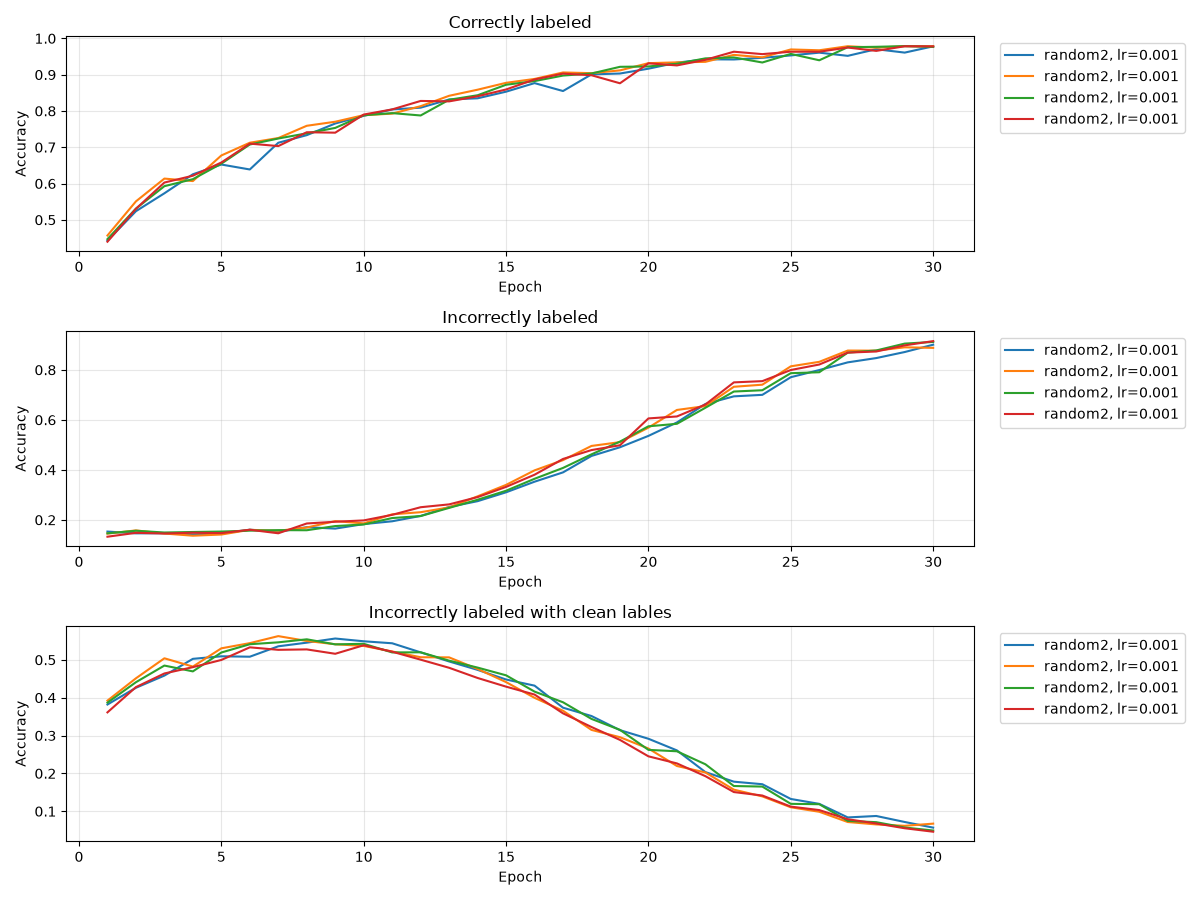
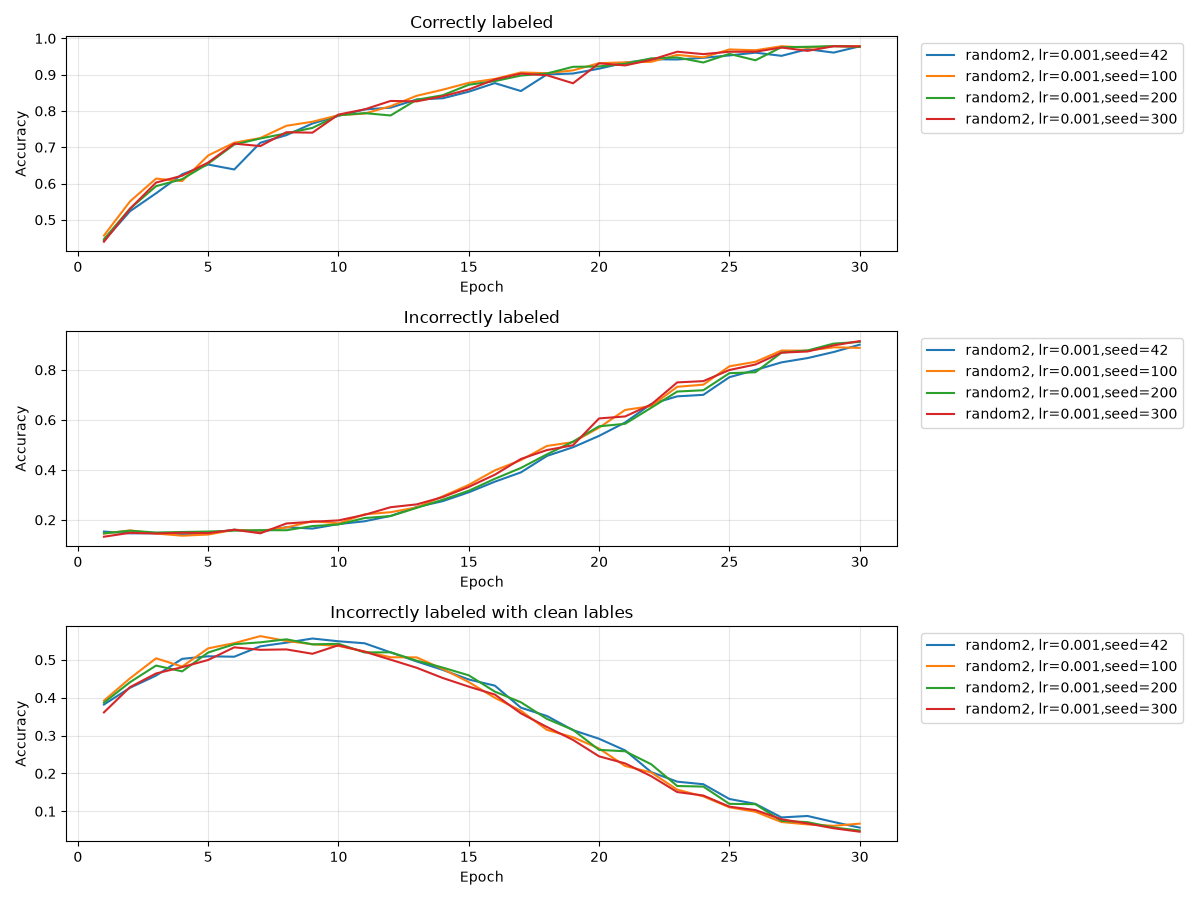
fikset at alle plotingene fungerer med ny filstruktur

diff --git a/plot_training.py b/plot_training.py
@@ -2,89 +2,105 @@ import json
 import matplotlib.pyplot as plt
 import numpy as np
 
-# Files for each run
-plotName = "different learning rates no noise"
-folder = "results"
-runs = {
-    "1e-2": "noise_clean_learning_rate_0.01_history.json",
-    "1e-3": "noise_clean_learning_rate_0.001_history.json",
-    "1e-4": "noise_clean_learning_rate_0.0001_history.json",
-    "1e-5": "noise_clean_learning_rate_1e-05_history.json"
-}
 
-# Different colors for each run
-colors = ["tab:blue", "tab:orange", "tab:green", "tab:red"]
+def plot_Loss_Accuracy_overfitting(folder,plotName, label_sets, learning_rates, seeds, max_epochs):
+    experiments = len(label_sets)* len(learning_rates)* len(seeds)
+    experiment = 0
 
-# Different line styles for each metric
-styles = {
-    "train": "-",
-    "val_noisy": "--",
-    "val_clean": ":",
-}
+    # Different colors for each run
+    colors = ["tab:blue", "tab:orange", "tab:green", "tab:red"]
 
-fig, ax = plt.subplots(3, 1, figsize=(12, 9))
+    # Different line styles for each metric
+    styles = {
+        "train": "-",
+        "val_noisy": "--",
+        "val_clean": ":",
+    }
 
-for (run_name, filename), color in zip(runs.items(), colors):
+    if experiments > len(colors):
+            print("to manny runs, add more collers or reduse label_sets or learning_rates")
+            return
+    
+    fig, ax = plt.subplots(3, 1, figsize=(12, 9))
 
-    with open(f"{folder}/{filename}", "r") as f:
-        history = json.load(f)
+    for noise in label_sets:
+        for learning_rate in learning_rates: 
+            for seed in seeds:
+                experiment_name = f"noise_{noise}_learning_rate_{learning_rate}_seed{seed}_epochs_{max_epochs}"
+                experiment_file = f"{folder}/{experiment_name}_history.json"
 
-    epochs = range(1, len(history["train_loss"]) + 1)
+                with open(experiment_file, "r") as f:
+                    history = json.load(f)
 
-    # Loss
-    for metric, style in styles.items():
-        ax[0].plot(
-            epochs,
-            history[f"{metric}_loss"],
-            color=color,
-            linestyle=style,
-            label=f"{run_name} - {metric}"
-        )
+                epochs = range(1, len(history["train_loss"])+1)
 
-    # Accuracy
-    for metric, style in styles.items():
-        ax[1].plot(
-            epochs,
-            history[f"{metric}_accuracy"],
-            color=color,
-            linestyle=style,
-            label=f"{run_name} - {metric}"
-        )
+                # Loss
+                for metric, style in styles.items():
+                    ax[0].plot(
+                        epochs,
+                        history[f"{metric}_loss"],
+                        color=colors[experiment],
+                        linestyle=style,
+                        label=f"{noise}, lr={learning_rate}, seed={seed} - {metric}"
+                    )
 
-    # overfitting gap
-    overfitting_gap = np.asarray(history[f"train_accuracy"]) - np.asarray(history[f"val_clean_accuracy"])
+                # Accuracy
+                for metric, style in styles.items():
+                    ax[1].plot(
+                        epochs,
+                        history[f"{metric}_accuracy"],
+                        color=colors[experiment],
+                        linestyle=style,
+                        label=f"{noise}, lr={learning_rate}, seed={seed} - {metric}"
+                    )
 
-    ax[2].plot(
-        epochs,
-        overfitting_gap,
-        color=color,
-        linestyle="-",
-        label=f"{run_name}"
-    )
+                # overfitting gap
+                overfitting_gap = np.asarray(history[f"train_accuracy"]) - np.asarray(history[f"val_clean_accuracy"])
 
-# Loss plot
-ax[0].set_xlabel("Epoch")
-ax[0].set_ylabel("Loss")
-ax[0].set_title("Loss")
-ax[0].legend(loc="upper left", bbox_to_anchor=(1.02, 1))
-ax[0].grid(True, alpha=0.3)
+                ax[2].plot(
+                    epochs,
+                    overfitting_gap,
+                    color=colors[experiment],
+                    linestyle="-",
+                    label=f"{noise}, lr={learning_rate}, seed={seed}"
+                )
 
+                experiment += 1
 
-# Accuracy plot
-ax[1].set_xlabel("Epoch")
-ax[1].set_ylabel("Accuracy")
-ax[1].set_title("Accuracy")
-ax[1].legend(loc="upper left", bbox_to_anchor=(1.02, 1))
-ax[1].grid(True, alpha=0.3)
-
-# overfitting plot
-ax[2].set_xlabel("Epoch")
-ax[2].set_ylabel("Overfitting gap")
-ax[2].set_title("Overfitting gap (train accuracy - clean val accuracy)")
-ax[2].legend(loc="upper left", bbox_to_anchor=(1.02, 1))
-ax[2].grid(True, alpha=0.3)
+    # Loss plot
+    ax[0].set_xlabel("Epoch")
+    ax[0].set_ylabel("Loss")
+    ax[0].set_title("Loss")
+    ax[0].legend(loc="upper left", bbox_to_anchor=(1.02, 1))
+    ax[0].grid(True, alpha=0.3)
 
 
-plt.tight_layout()
-plt.savefig(f"plots/{plotName}")
-plt.show()
+    # Accuracy plot
+    ax[1].set_xlabel("Epoch")
+    ax[1].set_ylabel("Accuracy")
+    ax[1].set_title("Accuracy")
+    ax[1].legend(loc="upper left", bbox_to_anchor=(1.02, 1))
+    ax[1].grid(True, alpha=0.3)
+
+    # overfitting plot
+    ax[2].set_xlabel("Epoch")
+    ax[2].set_ylabel("Overfitting gap")
+    ax[2].set_title("Overfitting gap (train accuracy - clean val accuracy)")
+    ax[2].legend(loc="upper left", bbox_to_anchor=(1.02, 1))
+    ax[2].grid(True, alpha=0.3)
+
+
+    plt.tight_layout()
+    plt.savefig(f"plots/{plotName}")
+    plt.show()
+
+
+if __name__ == "__main__":
+    folder = "results_learningrates"
+    plotName = "Loss, Accuracy, overfitting under training "
+    #label_sets = ["clean", "aggre", "random1", "random2", "random3", "worst"]
+    label_sets = ["random2"]
+    learning_rates = [0.001]
+    seeds = [42, 100, 200, 300]
+    epochs = 30
+    plot_Loss_Accuracy_overfitting(folder, plotName, label_sets, learning_rates, seeds, epochs)

diff --git a/plot_lable_accuracy.py b/plot_lable_accuracy.py
@@ -2,7 +2,7 @@ import json
 import matplotlib.pyplot as plt
 import numpy as np
 
-def plot_label_Accuracy(plotName, label_sets, learning_rates, seeds, max_epochs):
+def plot_label_Accuracy(folder, plotName, label_sets, learning_rates, seeds, max_epochs):
     experiments = len(label_sets)* len(learning_rates)* len(seeds)
     experiment = 0
 
@@ -19,19 +19,19 @@ def plot_label_Accuracy(plotName, label_sets, learning_rates, seeds, max_epochs)
         for learning_rate in learning_rates: 
             for seed in seeds:
                 experiment_name = f"noise_{noise}_learning_rate_{learning_rate}_seed{seed}_epochs_{max_epochs}"
-                experiment_file = f"results/{experiment_name}_history.json"
+                experiment_file = f"{folder}/{experiment_name}_history.json"
 
                 with open(experiment_file, "r") as f:
                     history = json.load(f)
 
-                epochs = range(1, max_epochs+1)
+                epochs = range(1, len(history["train_loss"])+1)
 
                 ax[0].plot(
                     epochs,
                     history["correctly_labeled_accuracy"],
                     color=colors[experiment],
                     linestyle="-",
-                    label=f"{noise}, lr={learning_rate}"
+                    label=f"{noise}, lr={learning_rate},seed={seed}"
                 )
 
                 ax[1].plot(
@@ -39,7 +39,7 @@ def plot_label_Accuracy(plotName, label_sets, learning_rates, seeds, max_epochs)
                     history["incorrectly_labeled_accuracy"],
                     color=colors[experiment],
                     linestyle="-",
-                    label=f"{noise}, lr={learning_rate}"
+                    label=f"{noise}, lr={learning_rate},seed={seed}"
                 )
 
                 ax[2].plot(
@@ -47,26 +47,26 @@ def plot_label_Accuracy(plotName, label_sets, learning_rates, seeds, max_epochs)
                     history["incorrectly_labeled_clean_accuracy"],
                     color=colors[experiment],
                     linestyle="-",
-                    label=f"{noise}, lr={learning_rate}"
+                    label=f"{noise}, lr={learning_rate},seed={seed}"
                 )
 
                 experiment += 1
 
-    # Loss plot
+    
     ax[0].set_xlabel("Epoch")
     ax[0].set_ylabel("Accuracy")
     ax[0].set_title("Correctly labeled")
     ax[0].legend(loc="upper left", bbox_to_anchor=(1.02, 1))
     ax[0].grid(True, alpha=0.3)
 
-    # Accuracy plot
+    
     ax[1].set_xlabel("Epoch")
     ax[1].set_ylabel("Accuracy")
     ax[1].set_title("Incorrectly labeled")
     ax[1].legend(loc="upper left", bbox_to_anchor=(1.02, 1))
     ax[1].grid(True, alpha=0.3)
 
-    # overfitting plot
+    
     ax[2].set_xlabel("Epoch")
     ax[2].set_ylabel("Accuracy")
     ax[2].set_title("Incorrectly labeled with clean lables")
@@ -77,7 +77,7 @@ def plot_label_Accuracy(plotName, label_sets, learning_rates, seeds, max_epochs)
     plt.savefig(f"plots/{plotName}")
     plt.show()
 
-def plot_label_Accuracy_one_plot(plotName, label_sets, learning_rates, seeds, max_epochs):
+def plot_label_Accuracy_one_plot(folder, plotName, label_sets, learning_rates, seeds, max_epochs):
     experiments = len(label_sets)* len(learning_rates)* len(seeds)
     experiment = 0
 
@@ -100,12 +100,12 @@ def plot_label_Accuracy_one_plot(plotName, label_sets, learning_rates, seeds, ma
         for learning_rate in learning_rates: 
             for seed in seeds:
                 experiment_name = f"noise_{noise}_learning_rate_{learning_rate}_seed{seed}_epochs_{max_epochs}"
-                experiment_file = f"results/{experiment_name}_history.json"
+                experiment_file = f"{folder}/{experiment_name}_history.json"
 
                 with open(experiment_file, "r") as f:
                     history = json.load(f)
 
-                epochs = range(1, max_epochs+1)
+                epochs = range(1, len(history["train_loss"])+1)
 
                 for metric, style in styles.items():
                     ax.plot(
@@ -113,12 +113,12 @@ def plot_label_Accuracy_one_plot(plotName, label_sets, learning_rates, seeds, ma
                         history[f"{metric}_accuracy"],
                         color=colors[experiment],
                         linestyle=style,
-                        label=f"{metric}, {noise}, lr={learning_rate}"
+                        label=f"{metric}, {noise}, lr={learning_rate},seed={seed}"
                     )
 
                 experiment += 1
 
-    # Loss plot
+    
     ax.set_xlabel("Epoch")
     ax.set_ylabel("Accuracy")
     ax.set_title("Accuracy depending on label correctness")
@@ -131,11 +131,12 @@ def plot_label_Accuracy_one_plot(plotName, label_sets, learning_rates, seeds, ma
 
 
 if __name__ == "__main__":
+    folder = "results_learningrates"
     plotName = "Accuracy based on if the label is correct"
     #label_sets = ["clean", "aggre", "random1", "random2", "random3", "worst"]
     label_sets = ["random2"]
     learning_rates = [0.001]
     seeds = [42, 100, 200, 300]
     epochs = 30
-    plot_label_Accuracy(plotName, label_sets, learning_rates, seeds, epochs)
-    plot_label_Accuracy_one_plot(plotName, label_sets, learning_rates, seeds, epochs)
+    plot_label_Accuracy(folder, plotName, label_sets, learning_rates, seeds, epochs)
+    plot_label_Accuracy_one_plot(folder, plotName, label_sets, learning_rates, seeds, epochs)

diff --git a/slider_confusion.py b/slider_confusion.py
@@ -5,19 +5,17 @@ import numpy as np
 import matplotlib.pyplot as plt
 from matplotlib.widgets import Slider
 
-PATH = "/home/jenspetersen/Desktop/ELE680/Learning-from-Noisy-Label-CIFAR-10N/demo_aggre_history.json"
+noise = "random2"
+learning_rate = 0.001
+seed = 42
+EPOCHS = 100
+experiment_name =  f"noise_{noise}_learning_rate_{learning_rate}_seed{seed}_epochs_{EPOCHS}"
+FOLDER = "results_learningrates"
+PATH = f"{FOLDER}/{experiment_name}_history.json"
 
-# --- Load data (or generate a demo set that slowly "learns" a diagonal) ---
-if os.path.exists(PATH):
-    with open(PATH) as f:
-        cms = np.array(json.load(f)["val_clean_cm"], dtype=float)
-else:
-    rng = np.random.default_rng(0)
-    n_epochs = 30
-    cms = np.stack([
-        np.eye(10) * (e + 1) * 10 + rng.random((10, 10)) * (n_epochs - e) * 5
-        for e in range(n_epochs)
-    ])
+
+with open(PATH, "r") as f:
+    cms = np.array(json.load(f)["val_clean_cm"], dtype=float)   
 
 print(f"Shape: {cms.shape}")  # [epochs, 10, 10]
 
